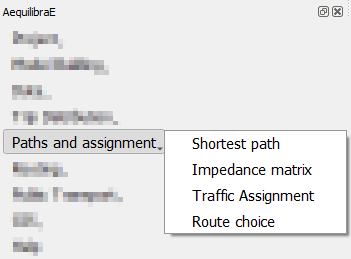
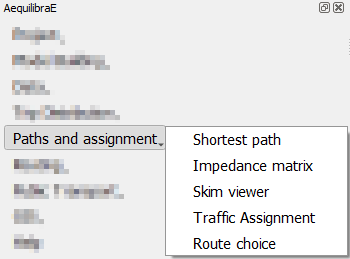
docs

diff --git a/qaequilibrae/modules/paths_procedures/skim_viewer_dialog.py b/qaequilibrae/modules/paths_procedures/skim_viewer_dialog.py
@@ -28,6 +28,7 @@ class SkimViewerDialog(QDialog, FORM_CLASS):
         self.all_modes = {}
         self.layer = None
         self.graph = None
+        self.idx = None
 
         # Layer fields
         default_style = QgsStyle().defaultStyle()
@@ -64,8 +65,8 @@ class SkimViewerDialog(QDialog, FORM_CLASS):
                 self.all_modes[f"{x[0]} ({x[1]})"] = x[1]
 
         self.but_plot.clicked.connect(self.run)
-        self.cob_minimizing.currentIndexChanged.connect(self.select_after)
-        self.cob_skim.currentIndexChanged.connect(self.select_after)
+        self.cob_minimizing.currentIndexChanged.connect(self.recompute_fields)
+        self.cob_skim.currentIndexChanged.connect(self.recompute_fields)
 
         self.configure_skim_fields()
 
@@ -276,16 +277,21 @@ class SkimViewerDialog(QDialog, FORM_CLASS):
         self.map_dt(dt)
 
     def select_after(self):
+        selected_features = self.layer.selectedFeatures()
+        self.idx = [feature[self.layer_col] for feature in selected_features][0]
+        self.compute_skims(self.idx)
+        dt = self.data_to_show.reshape(self.indices.shape[0])
+        self.map_dt(dt)
+
+    def recompute_fields(self):
         if self.layer:
-            selected_features = self.layer.selectedFeatures()
-            idx = [feature[self.layer_col] for feature in selected_features][0]
-            self.compute_skims(idx)
+            self.compute_skims(self.idx)
             dt = self.data_to_show.reshape(self.indices.shape[0])
             self.map_dt(dt)
 
     def run(self):
-        idx = int(self.line_start_id.text())
-        self.compute_skims(idx)
+        self.idx = int(self.line_start_id.text())
+        self.compute_skims(self.idx)
         self.plot_isochrone()
 
         self.layer.selectionChanged.connect(self.select_after)

diff --git a/docs/source/menus_in_detail/pathscomputation.rst b/docs/source/menus_in_detail/pathscomputation.rst
@@ -62,6 +62,50 @@ paths.
 With the results computed (AEM or OMX), one can display them on the screen, loading the 
 data using the :ref:`non-project data tab <fig_nonproject_data>` in **Data > Visualize data**. 
 
+.. _skim-viewer:
+
+Skim viewer
+-----------
+
+With the skim viewer now it's easier to view the skimming results. The skim viewer tab looks like
+this!
+
+.. image:: ../images/skim_viewer_dialog.png
+    :align: center
+    :alt: Skim viewer dialog
+
+In the *Layer* tab, one select among the nodes or zones layers for data viewing. It is also possible
+to select a color map range for plotting and the starting node/zone ID.
+
+In the *Graph* tab, one set the graph configurations, such as the mode, the minimizing (cost) 
+field, the choice to block or not flows through the centroids, and if we want to compute skims for
+all nodes or between centroids. Other useful feature for the skim viewer is allowing the user to
+use joined fields from the 'links' layer as minimizing or skimming field.
+
+Finally, in the *Skim* tab, we select the desired skimming field for plotting.
+
+We'll use the Coquimbo model for data vieweing.
+
+Skim view without joined layer
+~~~~~~~~~~~~~~~~~~~~~~~~~~~~~~
+
+.. image:: ../images/skim_viewer_no_plot.png
+    :align: center
+    :alt: Skim viewer no plot dialog
+
+.. image:: ../images/skim_viewer_first_node.png
+    :align: center
+    :alt: Skim viewer no plot dialog
+
+.. image:: ../images/skim_viewer_second_node.png
+    :align: center
+    :alt: Skim viewer no plot dialog
+
+Skim viewer with joined layer
+~~~~~~~~~~~~~~~~~~~~~~~~~~~~~
+
+
+
 .. _siouxfalls-traffic-assignment-and-skimming:
 
 Traffic assignment
